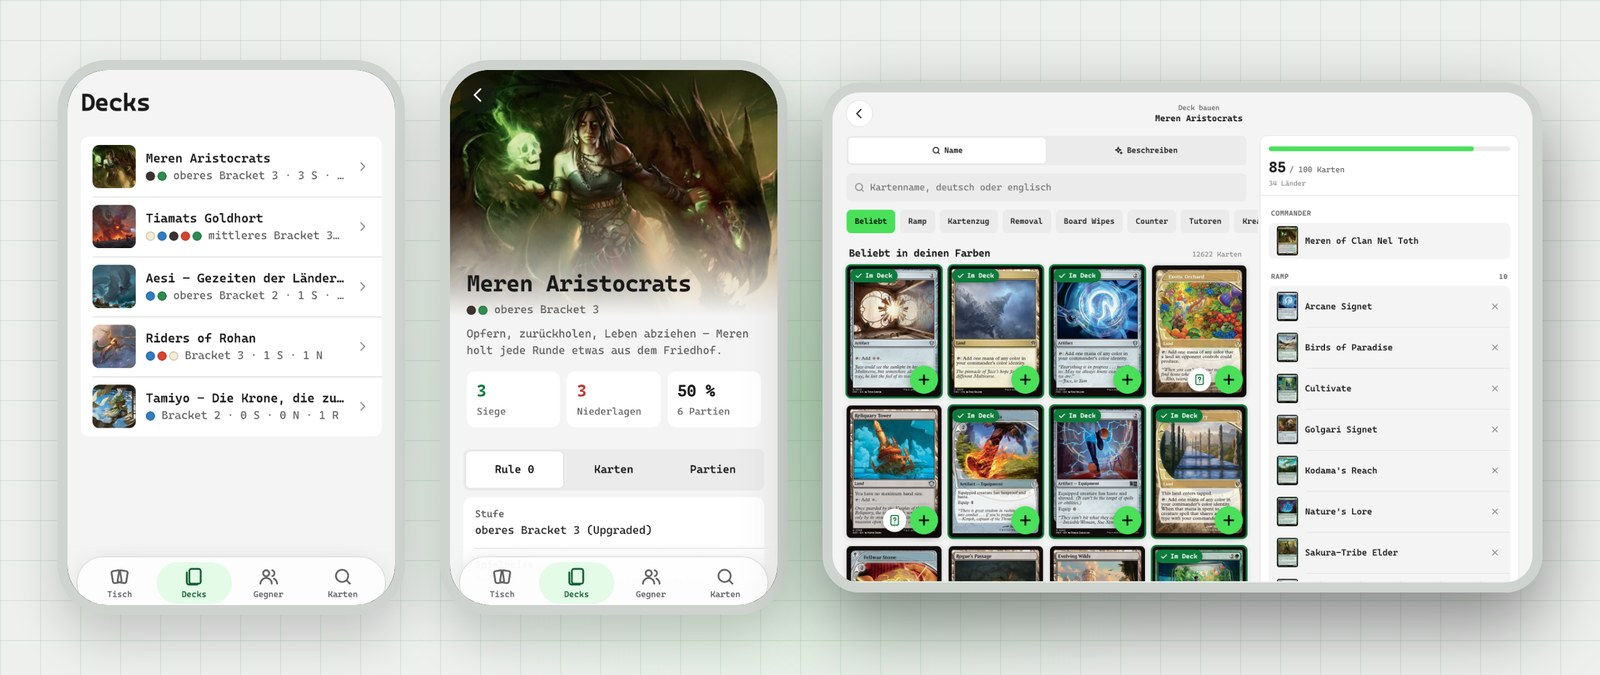
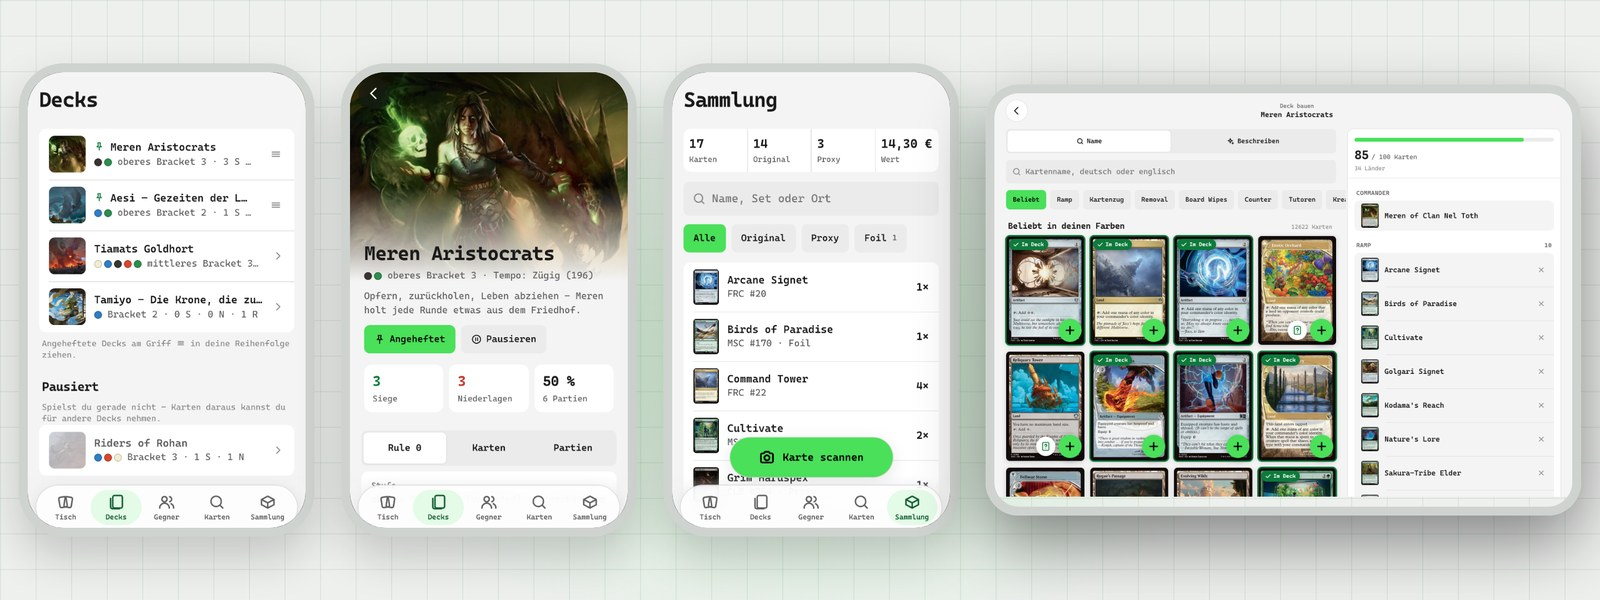
README: new features since 0.2, fresh screenshots, Conclave Cloud invite
Claude-Session: https://claude.ai/code/session_017ELa7BmiuvTvuSGjaZmPNT

diff --git a/README.md b/README.md
@@ -33,23 +33,36 @@ into a deck stays with me; the app only gives me the facts I need for it.
 
 ## On the PC
 
-<img src="docs/images/desktop-grid.jpg" alt="A deck in Conclave with its cards as pictures and the deck check, half in dark and half in light mode">
+<img src="docs/images/desktop-deck.jpg" alt="A deck in Conclave with its card list, the deck check and the Tempo rating, half in dark and half in light mode">
 
-- **Start a deck however you like:** pick a commander and add cards yourself, paste a link from Archidekt,
-  Moxfield and others, paste a list, or start from an official precon.
+- **Start a deck however you like:** pick a commander and add cards yourself, paste a link from Archidekt and
+  others, paste a list, or start from an official precon. For Moxfield, the app opens a real Moxfield window
+  where you log in, and one click brings the deck over.
 - **Drag cards in from scryfall.com:** drop a card from the browser into the deck, or onto the
   "Vielleicht" (maybe) list for cards you are still unsure about.
 - **Know where your deck stands:** a deck check shows if it is legal, which bracket it fits and what is
   missing, like ramp, card draw or removal. House rules and a personal blacklist are checked too.
+- **Tempo:** next to the bracket, Conclave rates how fast a deck is from its total mana value. Cost reducers,
+  convoke and cheap combos count, and it explains how it got the number.
+- **Pin and pause decks:** pin your favourites to the top in your own order, and put decks you don't play
+  right now aside, so their cards are free for other decks.
 - **Every change is a version:** go back to any older state, compare two versions or copy a deck.
-- **Test it before you sleeve it:** draw sample hands and see the odds for your land drops.
-- **Buy what you are missing:** a shopping list with Cardmarket prices, matched against your collection.
 
 <table>
   <tr>
     <td width="50%">
-      <img src="docs/images/desktop-test.jpg" alt="A test hand with seven cards and the odds for land drops">
-      <p align="center"><sub>Test hands and odds</sub></p>
+      <img src="docs/images/desktop-test.jpg" alt="A test hand rated as a keep, with reasons for and against it">
+      <p align="center"><sub>Test hands, rated: keep, borderline or mulligan</sub></p>
+    </td>
+    <td width="50%">
+      <img src="docs/images/desktop-cardview.jpg" alt="A foil card from the collection in the big card view">
+      <p align="center"><sub>Your own copies in the deck, foils included</sub></p>
+    </td>
+  </tr>
+  <tr>
+    <td width="50%">
+      <img src="docs/images/desktop-buy.jpg" alt="The shopping list with Cardmarket prices">
+      <p align="center"><sub>Shopping list with Cardmarket prices</sub></p>
     </td>
     <td width="50%">
       <img src="docs/images/desktop-print.jpg" alt="The print studio with one picture per card">
@@ -58,28 +71,53 @@ into a deck stays with me; the app only gives me the facts I need for it.
   </tr>
 </table>
 
+- **Test it before you sleeve it:** draw sample hands, see the odds for your land drops, and let the app
+  rate each opening hand with the reasons for and against keeping it. No AI, just maths and rules of thumb.
+- **Your collection, everywhere:** scan cards with the phone, import lists from ManaBox, Moxfield or Archidekt,
+  and say where each copy lives (a deck, a binder, the bulk box). The deck view then shows your own copies
+  with their printing, a foil shimmer, a 3D card view and their value.
+- **Buy what you are missing:** a shopping list with Cardmarket prices that knows what is already in your
+  collection, in a paused deck or in a box.
 - **Print proxies:** pick the art for every card, print sheets at home as a PDF, or send the order to
   MakePlayingCards through MPC Autofill. An optional local upscaler makes old scans sharp.
 - **Keep track of the table:** log games, remember the decks your friends play and what helps against them,
   and show a "Rule 0" summary of your deck before the game.
+- **Updates by itself:** the Windows app installs new versions with one click and shows the progress.
+  Brave? Turn on preview versions and get every change the day it is made.
 
 ## At the table and on the iPad
 
 <picture>
   <source media="(prefers-color-scheme: light)" srcset="docs/images/mobile-light.jpg">
-  <img src="docs/images/mobile-dark.jpg" alt="The Conclave phone app with the deck list and a deck, and the deck builder on the iPad">
+  <img src="docs/images/mobile-dark.jpg" alt="The Conclave phone app with the deck list, a deck and the collection, and the deck builder on the iPad">
 </picture>
 
-The phone app lives on my own sync server, so there is no app store involved. It is made for the game night:
+The phone app runs in the browser and installs to the home screen, so there is no app store involved. It is
+made for the game night:
 
 - **Log a game in seconds**, with the opponents' commanders and how the game was decided.
 - **Round helper:** counts life, commander damage, poison and turns during the game.
-- **Look up cards in German**, even offline, or **describe a card** ("a green creature that ramps") and get
-  matching cards. This card search is the one small AI feature I asked for.
+- **Scan your cards:** point the camera at a card and it lands in your collection, as original or proxy,
+  foil or not, in any language.
+- **Look up cards in German**, with mana symbols and double-faced cards you can flip, or **describe a card**
+  ("a green creature that ramps") and get matching cards. This card search is the one small AI feature I
+  asked for.
 - **Build decks on the iPad** with a big card grid and the deck right next to it.
 
-Everything syncs through a small server that I run myself. Every device keeps all its data and works
-without a connection; the server only passes changes along.
+Every device keeps all its data and works without a connection; a small sync server only passes the changes
+along.
+
+## Conclave Cloud
+
+Don't want to run a server? **Conclave Cloud** is a sync server I run for you, so your decks, games and
+collection travel between PC, phone and iPad without any setup.
+
+It is invite only for now. Ask for access on the **[Conclave Cloud page](https://conclave-cloud.duckdns.org/start/)**
+("Zugang anfragen"): leave your name and how we know each other, and I'll let you in by hand. With an invite
+code you create your sync on the same page and connect your first device with a QR code.
+
+Prefer to host it yourself? The sync server runs on your own machine too, see the
+[technical docs](docs/technik.md#sync-zwischen-geräten-eigener-server).
 
 ## Thanks
 
